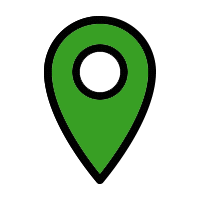
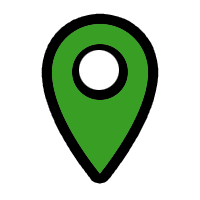
Done mission pointers on google map

diff --git a/src/components/GoogleMap.js b/src/components/GoogleMap.js
@@ -8,11 +8,12 @@ import GameProgress from "../services/GameProgress";
 import MapWelcomeScreen from "./MapWelcomeScreen";
 import ManageTeamService from "../services/ManageTeamService";
 
-const DonePoint = ({ text }) => <div className="pintext"><span>{text}</span><img src="mission_done_pointer.png" alt="mission done" width="30" /></div>
+const DonePoint = ({ text }) => <div className="pintext"><span>{text}</span><img src="mission_done_pointer.png" alt="mission done" width="32" /></div>
 const Point = ({ text }) => <div className="pintext"><span>{text}</span><img src="pointer.gif" alt="pointer" width="30" /></div>
 const NextPoint = ({ text }) => <div className="next-point"><span>{text}</span><img src="here.gif" alt="next mission" width="30" /><img src="pointer-inverted.gif" alt="pointer" className="absolute-image" width="30" /></div>
 const MeOnMap = ({direction}) => <div className="me-on-map"><img src="walking.gif" alt="me" width="30" className={direction}/></div>
 const MissionBox = ({ text, missiontext, missionid}) => <div><br/><h3>{text}</h3><hr/>{missiontext}<br/><br/><hr/><br/><br/><div style={{display:"none"}}>{missionid}</div></div>
+let unDonePoints = []
 
 class GoogleMap extends Component {
     constructor(props) {
@@ -129,7 +130,7 @@ class GoogleMap extends Component {
                 <MapWelcomeScreen game={gameId} team={teamId}/>
                 <div className="themissionbox" id="missionboxes">
                     {mapPointers && mapPointers.map((pointer, index) => (
-                            <div key={index} className="mission-box" id={`mission-box-${index}`}>
+                            <div key={index} className="mission-box" id={`mission-box-${pointer.missionId.id}`}>
                                 <MissionBox
                                     text={pointer.missionId.missionName}
                                     missiontext={pointer.missionId.missionDescription}
@@ -165,13 +166,28 @@ class GoogleMap extends Component {
                             styles: [{stylers: [{'saturation': 80}, {'gamma': 0.8}]}]
                         }}
                     >
-                        {mapPointers.map((mappointers, index) => (
+                        {gameProgress.map((progress) => (
+                            mapPointers
+                                .filter(pointer => progress.missionid !== pointer.missionId.id)
+                                .map((mappointers, index) => (
                             lats <= (mappointers.lat + 0.00003) && lats >= (mappointers.lat -0.00003) && lngs <= (mappointers.lng + 0.00003) && lngs >= (mappointers.lng - 0.00003) ? (
-                                <NextPoint key={index} lat={mappointers.lat} lng={mappointers.lng} text={mappointers.missionId.missionName} />
+                                <NextPoint key={mappointers.missionId.id} lat={mappointers.lat} lng={mappointers.lng} text={mappointers.missionId.missionName} />
                             ) : (
-                                <Point key={index} lat={mappointers.lat} lng={mappointers.lng} text={mappointers.missionId.missionName} /> )
+                                <Point key={mappointers.missionId.id} lat={mappointers.lat} lng={mappointers.lng} text={mappointers.missionId.missionName} /> )
                             )
-                            )
+                            )))
+                        }
+
+                        {gameProgress.map((progress) => (
+
+                            mapPointers
+                            .filter(pointer => pointer.missionId.id === progress.missionid)
+                            .map((mappointers, index) => (
+
+                         <DonePoint key={mappointers.missionId.id} lat={mappointers.lat} lng={mappointers.lng} text={mappointers.missionId.missionName} /> )
+
+                        )
+                        ))
                         }
 
                         <MeOnMap
